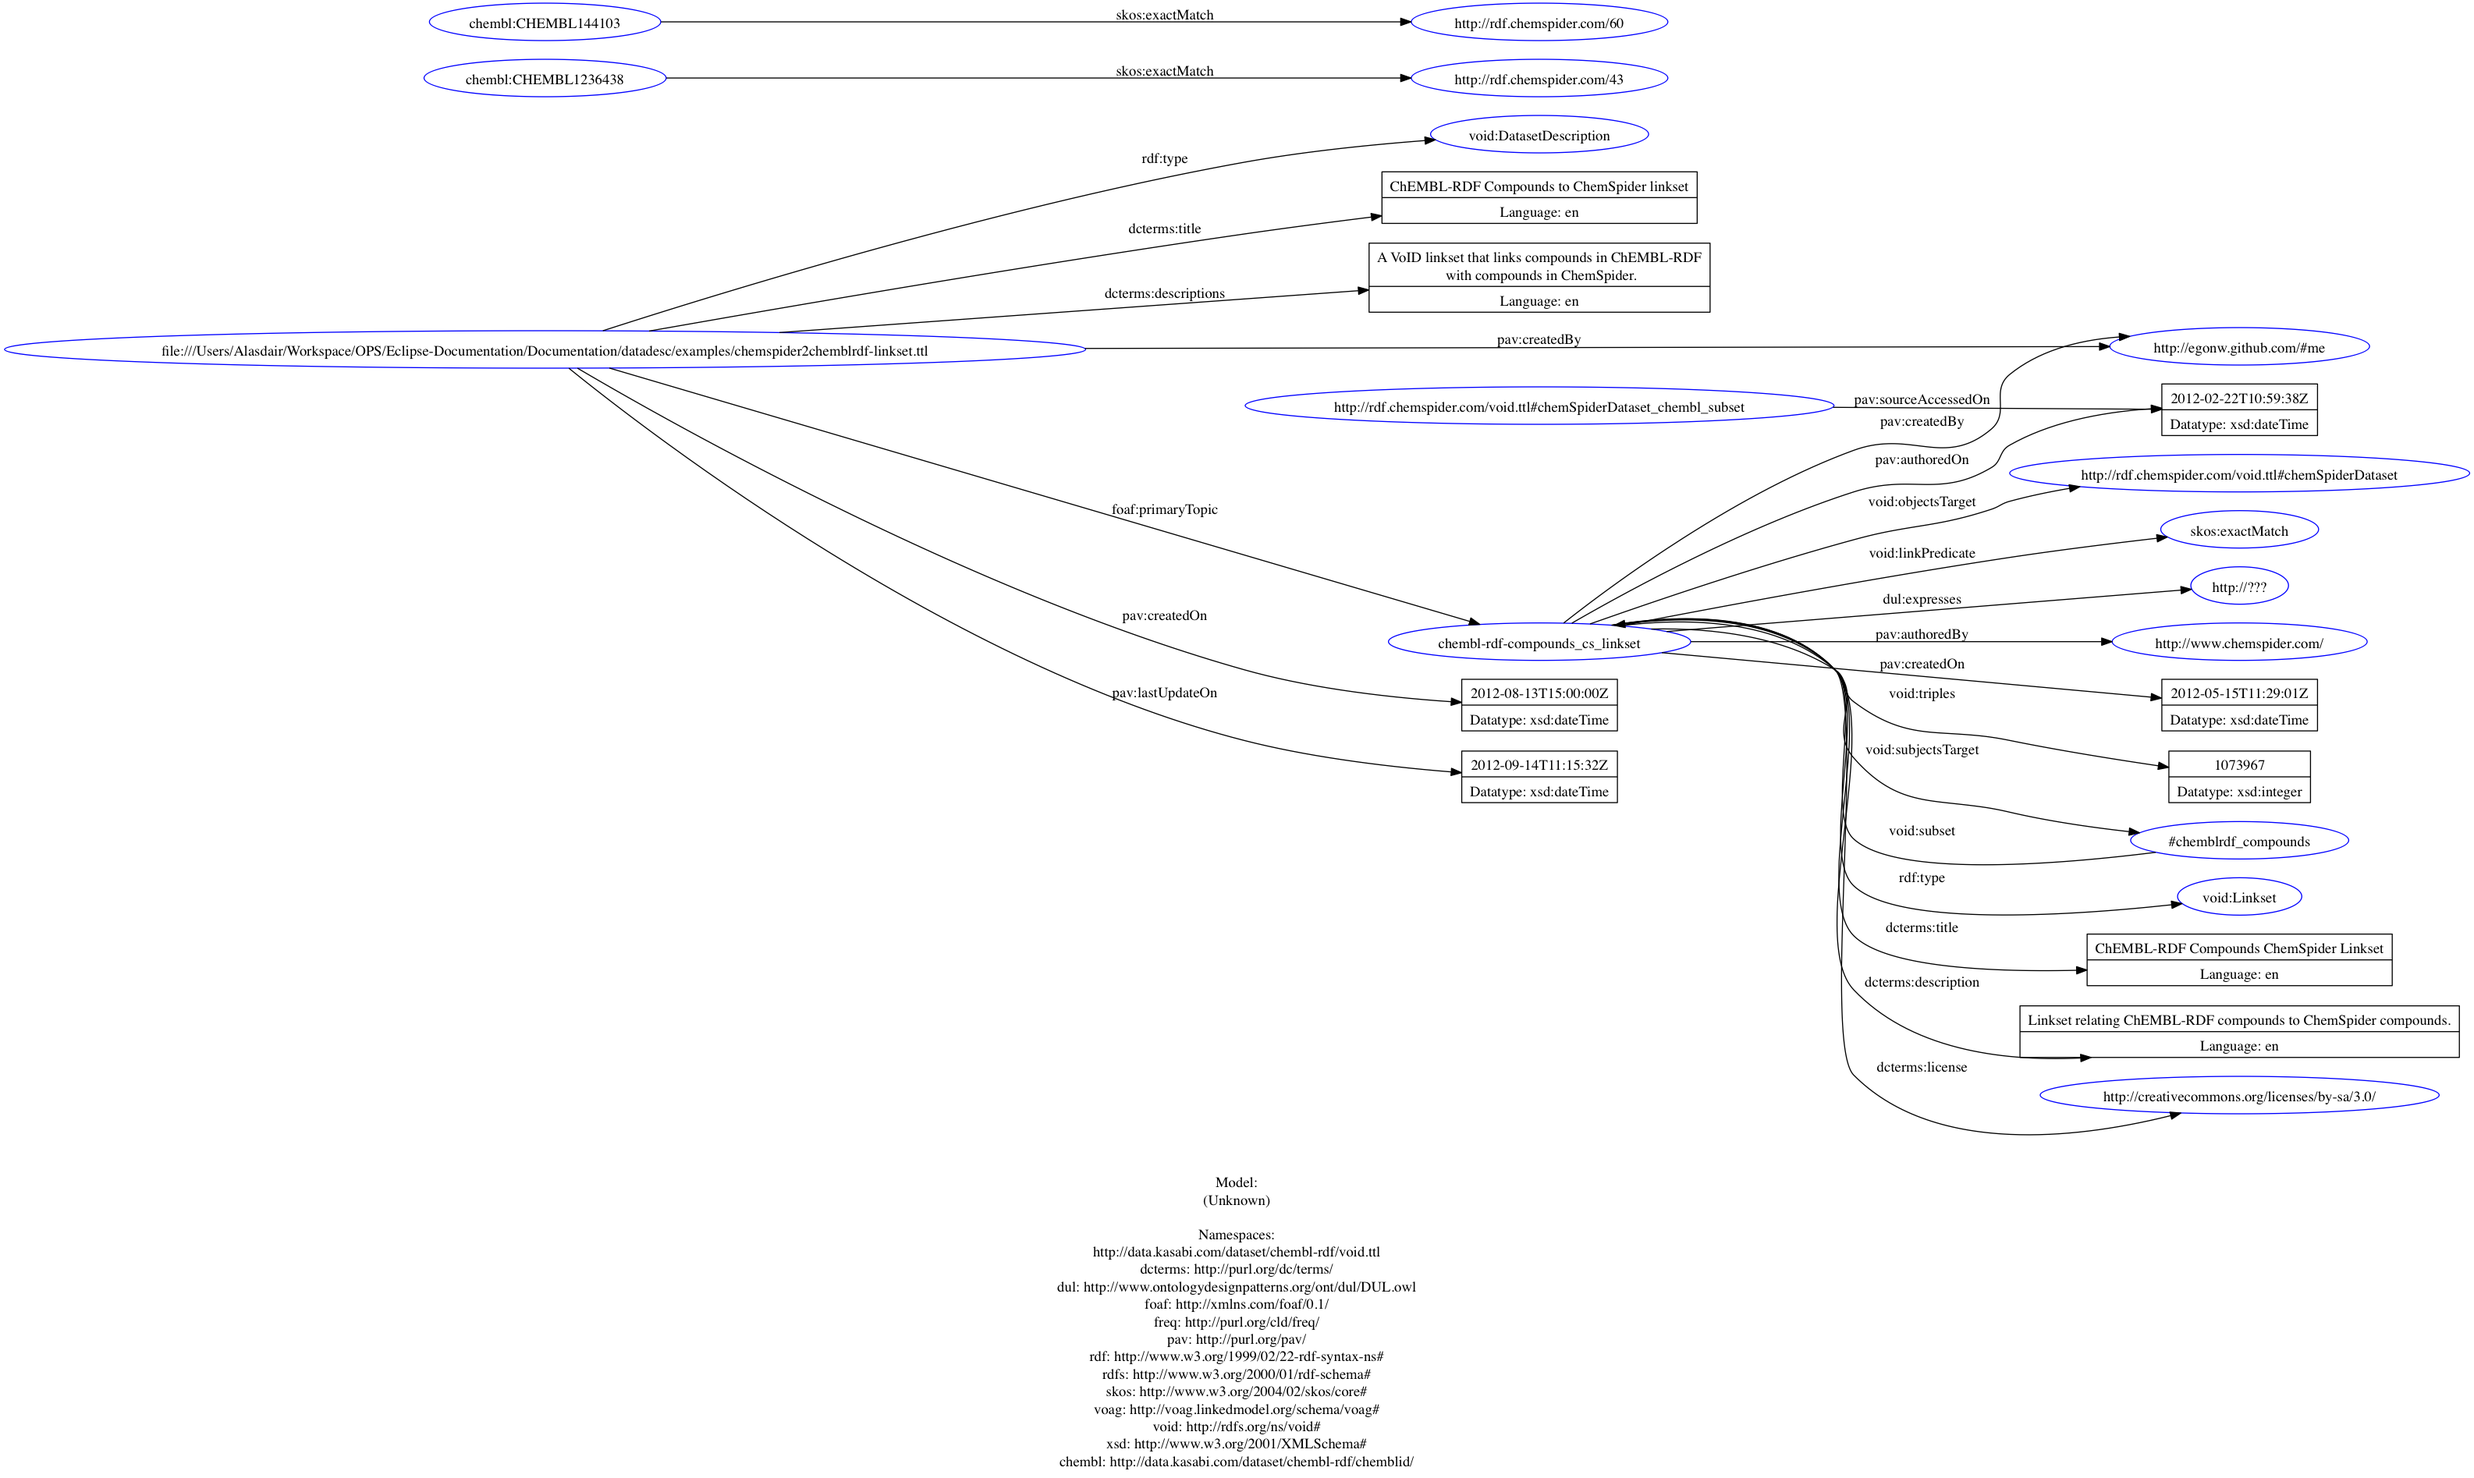
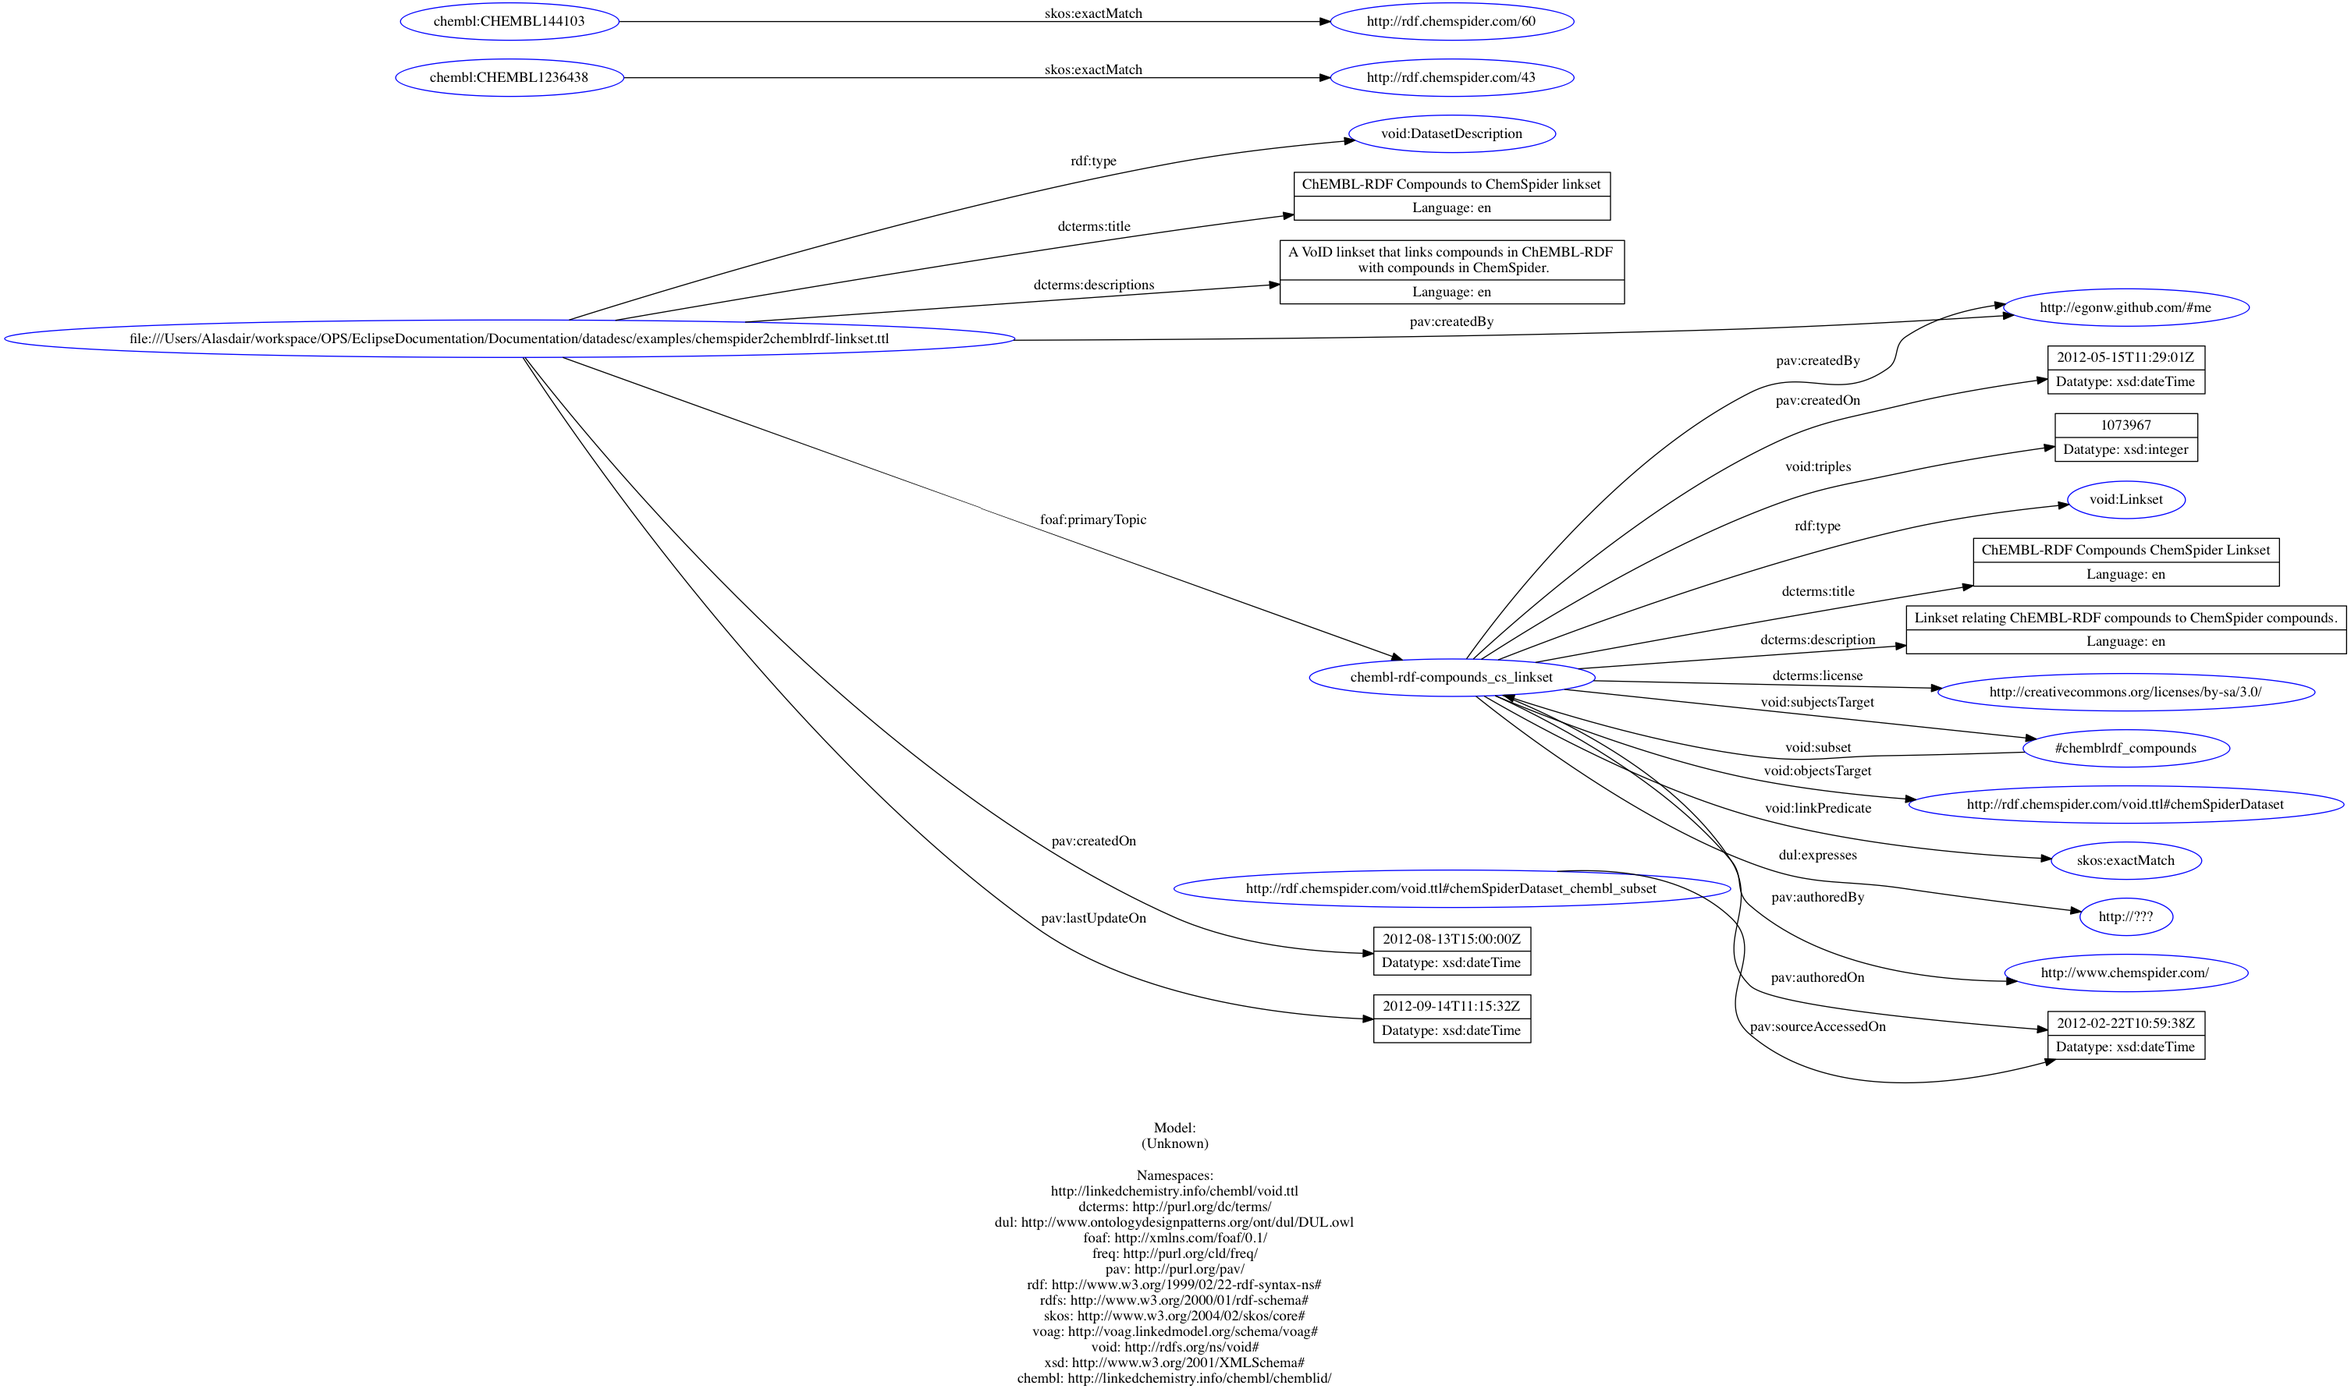
Updated example files from ChEMBL namespace change

diff --git a/datadesc/index.html b/datadesc/index.html
@@ -1967,7 +1967,7 @@
 		</ul>
 <!-- Example copy/pasted from examples/chemspider2chemblrdf-linkset.ttl -->
 		<pre class="turtle">
-@prefix : &lt;http://linkedchemistry.info/chembl//void.ttl&gt;.
+@prefix : &lt;http://linkedchemistry.info/chembl/void.ttl&gt;.
 
 @prefix dcterms: &lt;http://purl.org/dc/terms/&gt;.
 @prefix dul: &lt;http://www.ontologydesignpatterns.org/ont/dul/DUL.owl&gt; .
